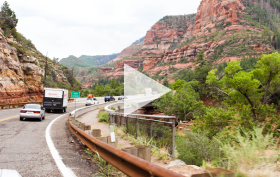
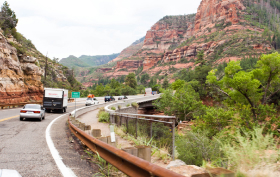
Стилизует страницу галереи

Changed region(s): [[0.4286, 0.3672, 0.6286, 0.6497]]

diff --git a/source/photo-and-video.html b/source/photo-and-video.html
@@ -54,7 +54,12 @@
             </a>
             <h3 class="photo-card__title">Неродные просторы</h3>
             <p class="photo-card__author">Автор фото: <span class="photo-card__author-name">Борис</span></p>
-            <span class="photo-card__likes">1350</span>
+            <div class="photo-card__likes likes">
+              <button class="likes__button" type="button">
+                <span class="visually-hidden">Нравится</span>
+              </button>
+              <span class="likes__count">1350</span>
+            </div>
           </article>
           <article class="photogallery__item photo-card">
             <a class="photo-card__link">
@@ -62,7 +67,12 @@
             </a>
             <h3 class="photo-card__title">Местная растительность</h3>
             <p class="photo-card__author">Автор фото: <span class="photo-card__author-name">Сергей</span></p>
-            <span class="photo-card__likes">143</span>
+            <div class="photo-card__likes likes">
+              <button class="likes__button" type="button">
+                <span class="visually-hidden">Нравится</span>
+              </button>
+              <span class="likes__count">143</span>
+            </div>
           </article>
           <article class="photogallery__item photo-card">
             <a class="photo-card__link">
@@ -70,7 +80,12 @@
             </a>
             <h3 class="photo-card__title">Дорога на север</h3>
             <p class="photo-card__author">Автор фото: <span class="photo-card__author-name">Петр</span></p>
-            <span class="photo-card__likes">96</span>
+            <div class="photo-card__likes likes">
+              <button class="likes__button" type="button">
+                <span class="visually-hidden">Нравится</span>
+              </button>
+              <span class="likes__count">96</span>
+            </div>
           </article>
           <article class="photogallery__item photo-card">
             <a class="photo-card__link">
@@ -78,16 +93,26 @@
             </a>
             <h3 class="photo-card__title">Мост Дьявола</h3>
             <p class="photo-card__author">Автор фото: <span class="photo-card__author-name">Антон</span></p>
-            <span class="photo-card__likes">254</span>
+            <div class="photo-card__likes likes">
+              <button class="likes__button" type="button">
+                <span class="visually-hidden">Нравится</span>
+              </button>
+              <span class="likes__count">254</span>
+            </div>
           </article>
         </div>
       </section>
-      <section class="video-presentation">
-        <div class="video-presentation__wrapper">
+      <section class="presentation">
+        <div class="presentation__wrapper">
           <h2 class="visually-hidden">Видеопрезентация города Седона</h2>
-          <p class="video-presentation__title">Все еще сомневаетесь?</p>
-          <p class="video-presentation__description">Смотрите видеопрезентацию и скорее за билетами, пока они не подорожали в очередной раз!</p>
-          <img class="video-presentation__cover" src="img/video-mobile.jpg" width="280" height="177" alt="Живописные скалы, растительность и кусочек дороги города Седона">
+          <p class="presentation__title title-default">Все еще сомневаетесь?</p>
+          <p class="presentation__description">Смотрите видеопрезентацию и скорее за билетами, пока они не подорожали в очередной раз!</p>
+          <div class="presentation__video video">
+            <img class="video__cover" src="img/video-mobile.jpg" width="280" height="177" alt="Живописные скалы, растительность и кусочек дороги города Седона">
+            <button class="video__play-button" type="button">
+              <span class="visually-hidden">Начать просмотр</span>
+            </button>
+          </div>
         </div>
       </section>
     </main>
@@ -100,7 +125,7 @@
         </a>
         <a class="social__link social__link--telegram" href="tg://resolve?domain=htmlacademy" target="_blank">
           <span class="visually-hidden">Перейти в Телеграм</span></a>
-        <a class="social__link social__item--youtube" href="https://www.youtube.com/user/htmlacademyru" target="_blank">
+        <a class="social__link social__link--youtube" href="https://www.youtube.com/user/htmlacademyru" target="_blank">
           <span class="visually-hidden">Перейти на YouTube</span></a>
       </section>
       <section class="main-footer__copyright copyright">

diff --git a/source/form.html b/source/form.html
@@ -144,7 +144,7 @@
         </a>
         <a class="social__link social__link--telegram" href="tg://resolve?domain=htmlacademy" target="_blank">
           <span class="visually-hidden">Перейти в Телеграм</span></a>
-        <a class="social__link social__item--youtube" href="https://www.youtube.com/user/htmlacademyru" target="_blank">
+        <a class="social__link social__link--youtube" href="https://www.youtube.com/user/htmlacademyru" target="_blank">
           <span class="visually-hidden">Перейти на YouTube</span></a>
       </section>
       <section class="main-footer__copyright copyright">

diff --git a/source/less/video.less b/source/less/video.less
@@ -1,0 +1,32 @@
+.video {
+}
+
+.video__cover {
+}
+
+.video__play-button {
+  position: absolute;
+  left: 50%;
+  top: 50%;
+  transform: translate(-50%, -50%);
+  width: 48px;
+  height: 54px;
+  z-index: 1;
+  border: 0;
+  background-color: transparent;
+  padding: 0;
+  &::after {
+    display: block;
+    content: "";
+    position: absolute;
+    top: 0;
+    left: 0;
+    border: 27px solid transparent;
+    border-left: 48px solid rgba(255, 255, 255, 0.7);
+    z-index: 2;
+  }
+
+  &--hidden {
+    display: none;
+  }
+}

diff --git a/source/less/likes.less b/source/less/likes.less
@@ -1,0 +1,19 @@
+.likes {
+}
+
+.likes__button {
+  width: 23px;
+  height: 21px;
+  border: none;
+  padding: 0;
+  background-color: transparent;
+  background-image: url(../img/like-icon.svg);
+  background-repeat: no-repeat;
+  background-position: 0 0;
+  background-size: 23px 21px;
+}
+
+.likes__count {
+  font-weight: 700;
+  color: @heading;
+}

diff --git a/source/less/photo-card.less b/source/less/photo-card.less
@@ -1,0 +1,27 @@
+.photo-card {
+  text-align: left;
+}
+
+.photo-card__link {
+}
+
+.photo-card__image {
+}
+
+.photo-card__title {
+  font-weight: 700;
+  font-size: 14px;
+  line-height: 21px;
+  margin: 0;
+  color: @heading;
+}
+
+.photo-card__author {
+  text-transform: none;
+}
+
+.photo-card__author-name {
+}
+
+.photo-card__likes {
+}

diff --git a/source/less/style.less b/source/less/style.less
@@ -19,6 +19,11 @@
 @import url(main-footer.less);
 @import url(social.less);
 @import url(copyright.less);
+@import url(photogallery.less);
+@import url(photo-card.less);
+@import url(likes.less);
+@import url(presentation.less);
+@import url(video.less);
 @import url(review-form.less);
 @import url(control.less);
 @import url(button.less);

diff --git a/source/less/presentation.less b/source/less/presentation.less
@@ -1,0 +1,15 @@
+.presentation {
+}
+
+.presentation__wrapper {
+}
+
+.presentation__title {
+}
+
+.presentation__description {
+}
+
+.presentation__video {
+  position: relative;
+}

diff --git a/source/less/photogallery.less b/source/less/photogallery.less
@@ -1,0 +1,12 @@
+.photogallery {
+}
+
+.photogallery__intro {
+}
+
+.photogallery__list {
+}
+
+.photogallery__item {
+  padding: 24px 20px 25px;
+}

diff --git a/source/less/title-default.less b/source/less/title-default.less
@@ -2,6 +2,6 @@
   font-weight: 700;
   font-size: 18px;
   line-height: 26px;
-  margin-block: 0;
+  margin: 0;
   color: @heading;
 }
